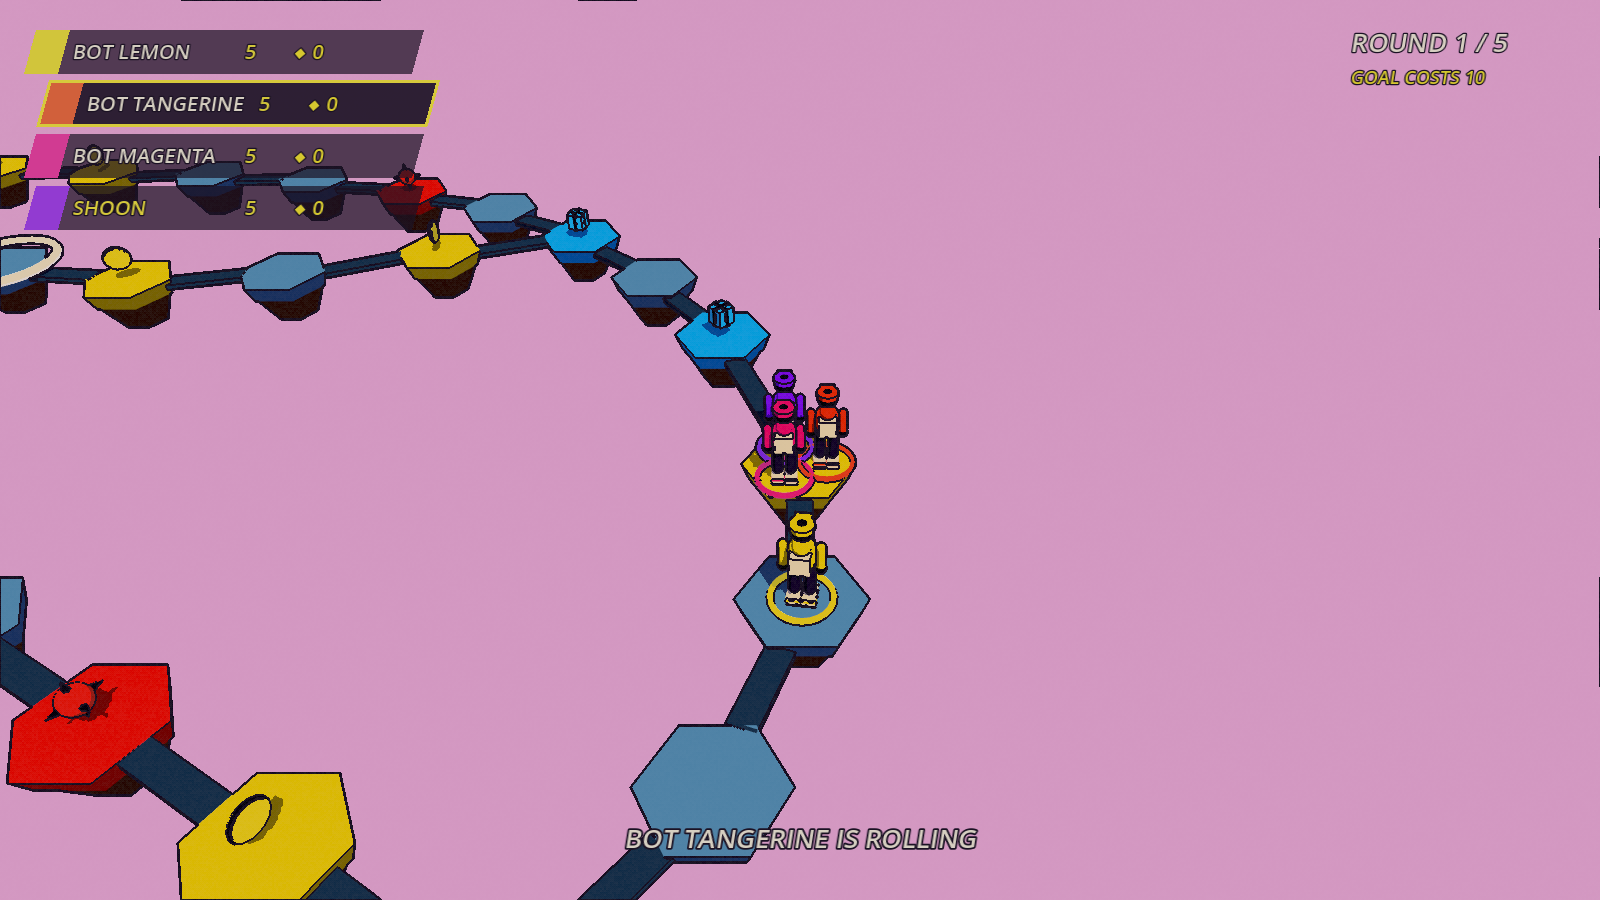
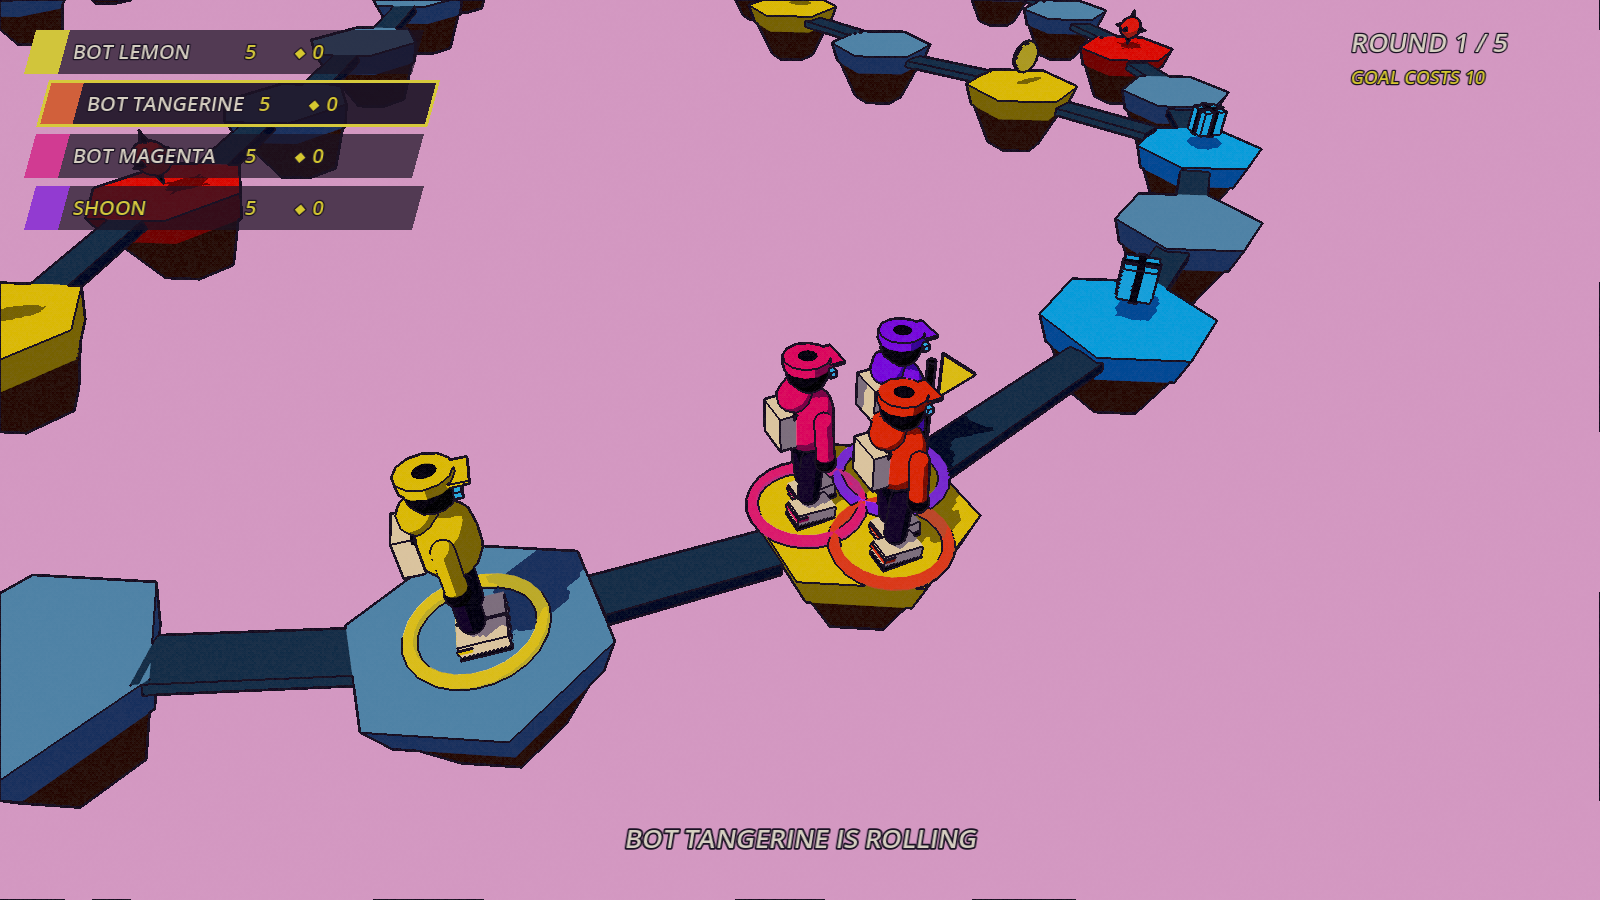
Board camera close on the active player, orbiting behind the moving pawn; fork buttons to the sides
9 m out at 42 deg (was 18 m), heading eased behind the pawn's travel
direction (<= 100 deg/s), tighter follow during hops, and at a fork the
camera stands behind the pawn looking down the middle of both paths so
LEFT and RIGHT are left and right on screen.

diff --git a/DECISIONS.md b/DECISIONS.md
@@ -121,3 +121,5 @@ Append-only. One line per assumption: date, the decision, the reason. Newest at 
 - 2026-09-18 — Results screen podium: the top three as figures on ink blocks in a SubViewport on the right, ranks as 3D labels, the winner hopping in place, colours from the session registry. Party games end on a podium; a list alone did not celebrate anyone.
 - 2026-09-18 — Board HUD counts down the last 10 s before the server auto-rolls the host's turn ("AUTO-ROLL IN 7"); Sean's log showed a silent timeout. Figures flinch (head and torso jerk back) when their health drops.
 - 2026-09-18 — Other players carry a name label over the head (hidden while down) and the figure shows which weapon they hold: a cream long rifle with a scope in slot 0, a short carbine in the player's colour otherwise, from the replicated weapon slot. Reading who is who and who has the sniper matters more in a party lobby than in a ranked shooter.
+- 2026-09-18 — Board camera pulled in on the active player (Sean: "more zoomed in on whoever's turn it is, like Pummel Party"): offset (0, 6.2, 6.8) looking at the pawn's chest, about 9 m out at 42° down, was (0, 12, 13.5). The fork framing still centres between the two options; `--board_overview` keeps the whole-board shot.
+- 2026-09-18 — The board camera also orbits behind the moving pawn along its heading (eased at ≤ 100°/s) and follows tighter during hops, then at a fork stands behind the pawn looking down the middle of the two paths so LEFT and RIGHT are literally left and right on screen. With the close framing the pawn had been running to the frame edge on turns toward the camera.

diff --git a/STATUS.md b/STATUS.md
@@ -252,6 +252,12 @@ Then: name labels over other players (hidden while down) and the held gun shows 
 slot (long cream rifle or short carbine); spectator rig creation guarded against a double
 build on the death frame.
 
+Board camera (Sean: "more zoomed in on whoever's turn it is, like Pummel Party"): 9 m out at
+42° instead of 18 m, and it now orbits behind the moving pawn along its heading (eased ≤
+100°/s, tighter follow during hops) and stands behind the pawn at a fork looking down the
+middle of both paths, so LEFT and RIGHT are left and right on screen; the fork buttons moved
+out to the sides. `board_turn.png`, `board_hop.png`, `board_fork.png`.
+
 ### Bugs found and fixed today (all measured before and after)
 
 1. Client's view of remote players lagged whole tick loops → 25 % hit confirmation. netfox
